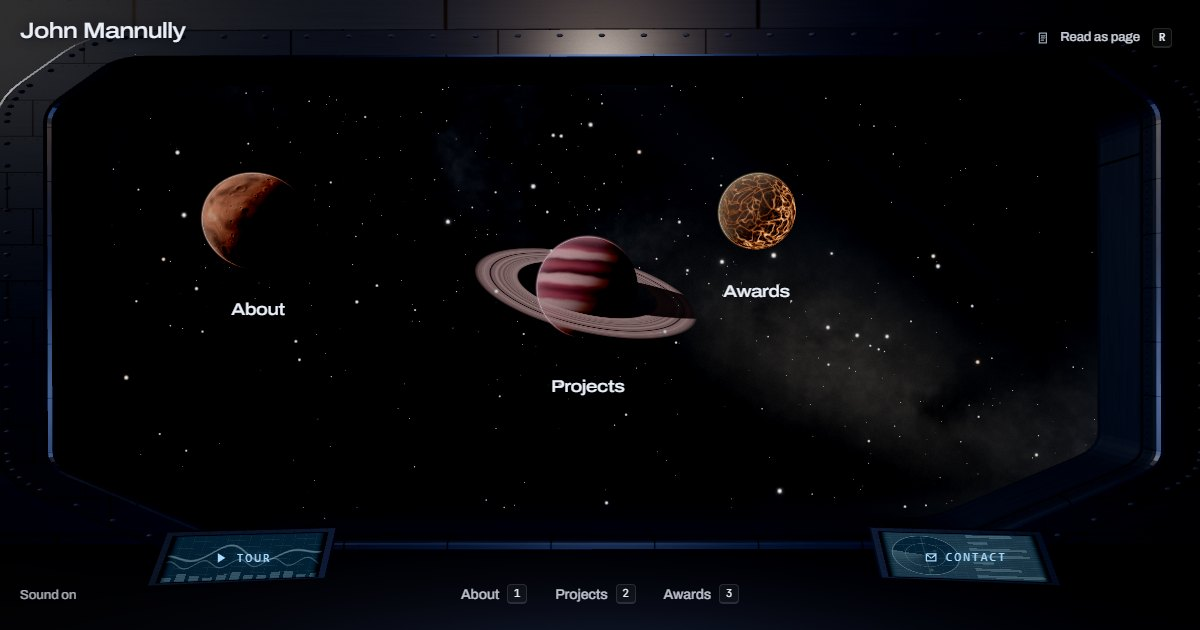
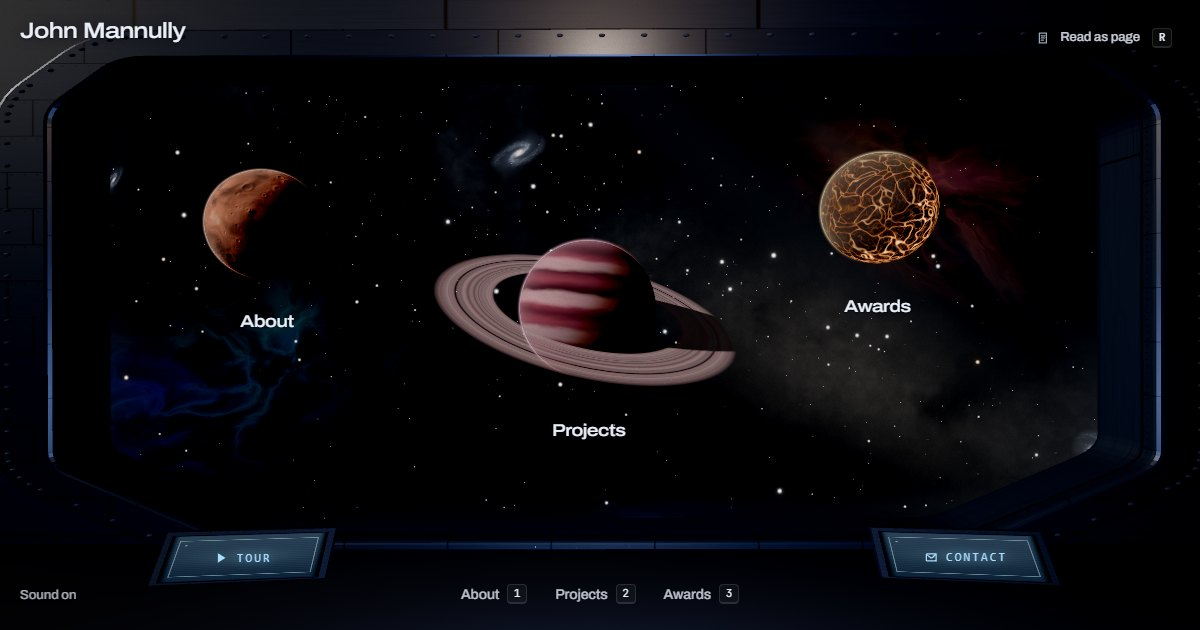
added nebulae, galaxies and meteors, enlarged planets, redid dash keys

diff --git a/src/scenes/overworld/DeepSky.tsx b/src/scenes/overworld/DeepSky.tsx
@@ -1,0 +1,302 @@
+import { useEffect, useMemo, useRef } from 'react';
+import { useFrame, useThree } from '@react-three/fiber';
+import * as THREE from 'three';
+import { useAppStore } from '@/state/useAppStore';
+
+/*
+ * What lies beyond the planets, seen through the deck window: a few soft
+ * nebulae, distant spiral galaxies, and now and then a meteor streaking past.
+ * Everything is additive, far behind the planets and never takes a click.
+ */
+
+/** Distance of the deep-sky layer: past the planets, inside the starfield shell */
+const FAR = 170;
+const noRaycast = () => null;
+
+const NOISE = /* glsl */ `
+  float hash(vec2 p) { return fract(sin(dot(p, vec2(127.1, 311.7))) * 43758.5453); }
+  float noise(vec2 p) {
+    vec2 i = floor(p), f = fract(p);
+    vec2 u = f * f * (3.0 - 2.0 * f);
+    return mix(mix(hash(i), hash(i + vec2(1.0, 0.0)), u.x), mix(hash(i + vec2(0.0, 1.0)), hash(i + vec2(1.0, 1.0)), u.x), u.y);
+  }
+  float fbm(vec2 p) {
+    float v = 0.0, a = 0.5;
+    for (int i = 0; i < 5; i++) { v += a * noise(p); p = p * 2.07 + 11.3; a *= 0.5; }
+    return v;
+  }
+`;
+
+const VERT = /* glsl */ `
+  varying vec2 vUv;
+  void main() {
+    vUv = uv * 2.0 - 1.0;
+    gl_Position = projectionMatrix * modelViewMatrix * vec4(position, 1.0);
+  }
+`;
+
+/** A wispy emission nebula: warped noise in two colours, cut by dark dust, fading at the edge. */
+const nebulaMaterial = (a: string, b: string, seed: number, strength: number) =>
+  new THREE.ShaderMaterial({
+    transparent: true,
+    depthWrite: false,
+    blending: THREE.AdditiveBlending,
+    fog: false,
+    uniforms: {
+      uA: { value: new THREE.Color(a) },
+      uB: { value: new THREE.Color(b) },
+      uSeed: { value: seed },
+      uTime: { value: 0 },
+      uK: { value: strength },
+    },
+    vertexShader: VERT,
+    fragmentShader: /* glsl */ `
+      uniform vec3 uA;
+      uniform vec3 uB;
+      uniform float uSeed;
+      uniform float uTime;
+      uniform float uK;
+      varying vec2 vUv;
+      ${NOISE}
+      void main() {
+        vec2 p = vUv;
+        float r = length(p * vec2(1.0, 1.35));
+        vec2 w = p * 1.6 + vec2(fbm(p * 1.4 + uSeed), fbm(p * 1.4 - uSeed + 3.1)) * 1.3 + uTime * 0.004;
+        float gas = fbm(w * 1.8 + uSeed * 2.0);
+        float fil = pow(1.0 - abs(fbm(w * 3.4 + 7.0) - 0.5) * 2.0, 6.0);
+        float dust = smoothstep(0.5, 0.75, fbm(w * 2.6 - 4.0));
+        float fall = pow(1.0 - smoothstep(0.05, 0.95, r), 1.5);
+        float d = (smoothstep(0.35, 0.8, gas) * 0.8 + fil * 0.55) * fall * (1.0 - 0.75 * dust);
+        vec3 col = mix(uA, uB, smoothstep(0.3, 0.75, fbm(w * 1.2 + 2.0))) * d * uK;
+        gl_FragColor = vec4(col, 1.0);
+        #include <tonemapping_fragment>
+        #include <colorspace_fragment>
+      }
+    `,
+  });
+
+/** A spiral galaxy seen at an angle: two log-spiral arms, a warm core, a cool disc. */
+const galaxyMaterial = (seed: number, tilt: number, spin: number, strength: number) =>
+  new THREE.ShaderMaterial({
+    transparent: true,
+    depthWrite: false,
+    blending: THREE.AdditiveBlending,
+    fog: false,
+    uniforms: { uSeed: { value: seed }, uTilt: { value: tilt }, uSpin: { value: spin }, uK: { value: strength } },
+    vertexShader: VERT,
+    fragmentShader: /* glsl */ `
+      uniform float uSeed;
+      uniform float uTilt;
+      uniform float uSpin;
+      uniform float uK;
+      varying vec2 vUv;
+      ${NOISE}
+      void main() {
+        // undo the viewing angle: the disc is squashed along y
+        float c = cos(uSpin), s = sin(uSpin);
+        vec2 p = mat2(c, -s, s, c) * vUv;
+        p.y /= max(0.2, uTilt);
+        float r = length(p);
+        float a = atan(p.y, p.x);
+        float arms = 0.5 + 0.5 * cos(2.0 * (a - log(r + 0.04) * 2.4) + fbm(p * 6.0 + uSeed) * 2.0);
+        arms = pow(arms, 2.5);
+        float clumps = smoothstep(0.45, 0.9, fbm(p * 14.0 + uSeed * 3.0));
+        float disc = exp(-r * 3.2) * (0.25 + 0.9 * arms * (0.6 + 0.6 * clumps));
+        float core = exp(-r * r * 60.0);
+        float edge = 1.0 - smoothstep(0.7, 1.0, length(vUv));
+        vec3 col = vec3(0.62, 0.74, 1.0) * disc + vec3(1.0, 0.86, 0.66) * core * 1.6 + vec3(1.0, 0.55, 0.7) * clumps * arms * exp(-r * 3.0) * 0.25;
+        gl_FragColor = vec4(col * edge * uK, 1.0);
+        #include <tonemapping_fragment>
+        #include <colorspace_fragment>
+      }
+    `,
+  });
+
+/** One meteor: a thin streak, white-hot at the head, fading along its tail. */
+const meteorMaterial = () =>
+  new THREE.ShaderMaterial({
+    transparent: true,
+    depthWrite: false,
+    blending: THREE.AdditiveBlending,
+    fog: false,
+    uniforms: { uA: { value: 0 } },
+    vertexShader: VERT,
+    fragmentShader: /* glsl */ `
+      uniform float uA;
+      varying vec2 vUv;
+      void main() {
+        // head at x = 1, tail toward x = -1
+        float t = (vUv.x + 1.0) * 0.5;
+        float body = pow(t, 3.0) * (1.0 - smoothstep(0.0, 1.0 - t * 0.6, abs(vUv.y)));
+        float head = exp(-((vUv.x - 0.92) * (vUv.x - 0.92)) * 300.0 - vUv.y * vUv.y * 6.0);
+        vec3 col = mix(vec3(0.55, 0.75, 1.0), vec3(1.0, 0.95, 0.85), t) * body * 1.4 + vec3(1.4) * head;
+        gl_FragColor = vec4(col * uA, 1.0);
+        #include <tonemapping_fragment>
+        #include <colorspace_fragment>
+      }
+    `,
+  });
+
+/** Direction from the viewer for a point in the window, roughly: x right, y up (tangents) */
+const place = (x: number, y: number) => new THREE.Vector3(x, y, -1).normalize().multiplyScalar(FAR);
+
+interface Sky {
+  pos: THREE.Vector3;
+  size: [number, number];
+  roll: number;
+  mat: THREE.ShaderMaterial;
+}
+
+const METEORS = 3;
+
+interface Meteor {
+  mat: THREE.ShaderMaterial;
+  start: THREE.Vector3;
+  dir: THREE.Vector3;
+  born: number;
+  life: number;
+  len: number;
+  /** Units per second along dir */
+  speed: number;
+  next: number;
+}
+
+const _x = new THREE.Vector3();
+const _y = new THREE.Vector3();
+const _z = new THREE.Vector3();
+const _m = new THREE.Matrix4();
+const _head = new THREE.Vector3();
+
+const DeepSky = () => {
+  const camera = useThree((s) => s.camera);
+  const reduced = useAppStore((s) => s.reducedMotion);
+  const meshes = useRef<(THREE.Mesh | null)[]>([]);
+
+  const sky = useMemo<Sky[]>(
+    () => [
+      // a teal and violet cloud low on the left, a rose and amber one high on the right
+      { pos: place(-0.55, -0.1), size: [120, 85], roll: 0.35, mat: nebulaMaterial('#2a9fb0', '#5a46c4', 1.3, 0.13) },
+      { pos: place(0.5, 0.16), size: [105, 70], roll: -0.5, mat: nebulaMaterial('#c4507a', '#c98a4e', 4.7, 0.1) },
+      { pos: place(0.05, -0.38), size: [140, 60], roll: 0.1, mat: nebulaMaterial('#3a5fd8', '#8a3fa8', 8.1, 0.075) },
+      // distant galaxies
+      { pos: place(-0.12, 0.24), size: [16, 16], roll: 0, mat: galaxyMaterial(2.0, 0.42, 0.6, 0.55) },
+      { pos: place(0.74, -0.2), size: [10, 10], roll: 0, mat: galaxyMaterial(5.0, 0.75, -0.3, 0.45) },
+      { pos: place(-0.72, 0.2), size: [7, 7], roll: 0, mat: galaxyMaterial(9.0, 0.28, 1.2, 0.4) },
+    ],
+    [],
+  );
+
+  const meteors = useMemo<Meteor[]>(
+    () =>
+      Array.from({ length: METEORS }, (_, i) => ({
+        mat: meteorMaterial(),
+        start: new THREE.Vector3(),
+        dir: new THREE.Vector3(),
+        born: -1,
+        life: 0.8,
+        len: 10,
+        speed: 60,
+        next: 1.5 + i * 3.1,
+      })),
+    [],
+  );
+
+  useEffect(
+    () => () => {
+      sky.forEach((s) => s.mat.dispose());
+      meteors.forEach((m) => m.mat.dispose());
+    },
+    [sky, meteors],
+  );
+
+  // the deep-sky planes face the eye once; they are far enough that parallax does not matter
+  useEffect(() => {
+    sky.forEach((s, i) => {
+      const m = meshes.current[i];
+      if (!m) return;
+      m.position.copy(s.pos);
+      m.lookAt(0, 0, 0);
+      m.rotateZ(s.roll);
+    });
+  }, [sky]);
+
+  useFrame(({ clock }) => {
+    const t = clock.elapsedTime;
+    sky.forEach((s) => {
+      if (s.mat.uniforms.uTime) s.mat.uniforms.uTime.value = reduced ? 0 : t;
+    });
+    meteors.forEach((m, i) => {
+      const mesh = meshes.current[sky.length + i];
+      if (!mesh) return;
+      if (reduced) {
+        mesh.visible = false;
+        return;
+      }
+      if (m.born < 0 && t >= m.next) {
+        // somewhere in the window, heading down and across at a slant
+        m.born = t;
+        m.life = 0.55 + Math.random() * 0.5;
+        m.len = 8 + Math.random() * 10;
+        m.speed = 25 + Math.random() * 25;
+        m.start.set((Math.random() - 0.5) * 1.4, 0.05 + Math.random() * 0.45, -1).normalize().multiplyScalar(120 + Math.random() * 30);
+        const side = Math.random() < 0.5 ? -1 : 1;
+        m.dir.set(side * (0.6 + Math.random() * 0.5), -(0.35 + Math.random() * 0.4), 0).normalize();
+      }
+      const age = m.born < 0 ? -1 : (t - m.born) / m.life;
+      if (age < 0 || age > 1) {
+        mesh.visible = false;
+        if (age > 1) {
+          m.born = -1;
+          m.next = t + 2.5 + Math.random() * 6;
+        }
+        return;
+      }
+      mesh.visible = true;
+      m.mat.uniforms.uA.value = Math.sin(Math.PI * age) * 0.9;
+      // a streak from the tail to the head, lying flat toward the eye
+      _head.copy(m.start).addScaledVector(m.dir, m.speed * (t - m.born));
+      _x.copy(m.dir);
+      _z.copy(camera.position).sub(_head).normalize();
+      _y.crossVectors(_z, _x).normalize();
+      _z.crossVectors(_x, _y);
+      _m.makeBasis(_x, _y, _z);
+      mesh.quaternion.setFromRotationMatrix(_m);
+      mesh.position.copy(_head).addScaledVector(m.dir, -m.len / 2);
+      mesh.scale.set(m.len, 0.16, 1);
+    });
+  });
+
+  return (
+    <group renderOrder={-5}>
+      {sky.map((s, i) => (
+        <mesh
+          key={i}
+          ref={(el) => {
+            meshes.current[i] = el;
+          }}
+          material={s.mat}
+          raycast={noRaycast}
+          frustumCulled={false}
+        >
+          <planeGeometry args={s.size} />
+        </mesh>
+      ))}
+      {meteors.map((m, i) => (
+        <mesh
+          key={`m${i}`}
+          ref={(el) => {
+            meshes.current[sky.length + i] = el;
+          }}
+          material={m.mat}
+          visible={false}
+          raycast={noRaycast}
+          frustumCulled={false}
+        >
+          <planeGeometry args={[1, 1]} />
+        </mesh>
+      ))}
+    </group>
+  );
+};
+
+export default DeepSky;

diff --git a/src/scenes/ship/materials.ts b/src/scenes/ship/materials.ts
@@ -73,7 +73,8 @@ export const instrumentMaterial = (kind: 0 | 1) =>
   new THREE.ShaderMaterial({
     fog: false,
     transparent: true,
-    uniforms: { uTime: { value: 0 }, uKind: { value: kind }, uLit: { value: 1 } },
+    // the site opens in orbit, where the displays are key faces
+    uniforms: { uTime: { value: 0 }, uKind: { value: kind }, uFace: { value: 1 }, uHover: { value: 0 } },
     vertexShader: /* glsl */ `
       varying vec2 vUv;
       void main() {
@@ -84,8 +85,9 @@ export const instrumentMaterial = (kind: 0 | 1) =>
     fragmentShader: /* glsl */ `
       uniform float uTime;
       uniform float uKind;
-      // 1 = full graphics; lower while the display carries a control label
-      uniform float uLit;
+      // 1 = a plain console key face for a control label (no graphics under the text)
+      uniform float uFace;
+      uniform float uHover;
       varying vec2 vUv;
       void main() {
         vec2 uv = vUv;
@@ -125,7 +127,22 @@ export const instrumentMaterial = (kind: 0 | 1) =>
         float scan = 0.85 + 0.15 * sin(uv.y * 160.0);
         vec2 e = min(uv, 1.0 - uv);
         float vig = smoothstep(0.0, 0.06, min(e.x, e.y * 2.0));
-        vec3 col = vec3(0.01, 0.024, 0.04) + ink * (grid + g) * scan * 0.85 * uLit;
+        vec3 col = vec3(0.01, 0.024, 0.04) + ink * (grid + g) * scan * 0.85;
+
+        // key face: dark glass, an inset hairline frame, a status light in the corner, a glow on hover
+        vec2 q = uv - 0.5;
+        vec2 fe = abs(q) - vec2(0.44, 0.38);
+        float box = max(fe.x, fe.y * 0.5);
+        float line = smoothstep(0.006, 0.0, abs(box));
+        float led = smoothstep(0.022, 0.0, length((uv - vec2(0.105, 0.78)) * vec2(2.0, 1.0)));
+        float ledOn = 0.55 + 0.45 * sin(uTime * 1.6);
+        float glow = exp(-dot(q * vec2(1.6, 3.0), q * vec2(1.6, 3.0)) * 4.0);
+        vec3 faceCol = mix(vec3(0.012, 0.022, 0.04), vec3(0.03, 0.05, 0.08), uv.y)
+          + ink * line * (0.22 + 0.45 * uHover)
+          + ink * glow * (0.03 + 0.1 * uHover)
+          + vec3(0.45, 1.0, 0.7) * led * ledOn * 0.9
+          + ink * (0.5 + 0.5 * sin(uv.y * 160.0)) * 0.006;
+        col = mix(col, faceCol, uFace);
         gl_FragColor = vec4(col * vig, 1.0);
         #include <tonemapping_fragment>
         #include <colorspace_fragment>

diff --git a/src/scenes/ship/Cockpit.tsx b/src/scenes/ship/Cockpit.tsx
@@ -587,8 +587,9 @@ const Cockpit = () => {
       const d = dashScreens[key];
       const mesh = displays.current[i];
       const mat = i === 0 ? screenL : screenR;
-      const lit = asControls ? (d.hover ? 0.38 : 0.2) : 1;
-      mat.uniforms.uLit.value += (lit - mat.uniforms.uLit.value) * damp(12, dt);
+      // in orbit the display turns into a plain key face; the graphics come back in flight
+      mat.uniforms.uFace.value += ((asControls ? 1 : 0) - mat.uniforms.uFace.value) * damp(8, dt);
+      mat.uniforms.uHover.value += ((asControls && d.hover ? 1 : 0) - mat.uniforms.uHover.value) * damp(14, dt);
       d.visible = asControls && !!mesh;
       if (!d.visible || !mesh) return;
       let x0 = Infinity;

diff --git a/src/scenes/overworld/OverworldScene.tsx b/src/scenes/overworld/OverworldScene.tsx
@@ -1,6 +1,7 @@
 import { useEffect } from 'react';
 import { useFrame } from '@react-three/fiber';
 import * as THREE from 'three';
+import DeepSky from './DeepSky';
 import Starfield from './Starfield';
 import PlanetNode from './PlanetNode';
 import TelescopeCamera from './TelescopeCamera';
@@ -87,6 +88,7 @@ const OverworldScene = () => {
       <directionalLight position={SUN_LIGHT_POS} intensity={2.2} color="#fff3e2" />
       <SpaceBackdrop />
       <Starfield />
+      <DeepSky />
       <Sun />
       {planets.map((p) => (
         <PlanetNode key={p.id} planet={p} />

diff --git a/README.md b/README.md
@@ -26,7 +26,7 @@ flowchart LR
     runtime[("runtime.ts<br/><sub>per-frame mutable state</sub>")]
   end
   subgraph Canvas["R3F canvas"]
-    overworld["OverworldScene<br/><sub>planets, stars, telescope camera</sub>"]
+    overworld["OverworldScene<br/><sub>planets, stars, nebulae, galaxies, meteors, telescope camera</sub>"]
     surface["PlanetSurfaceScene<br/><sub>sky, mothership, terrain, monuments, wildlife, walk camera</sub>"]
     screens["BeaconScreens<br/><sub>orbiting panels, in-world content screens</sub>"]
     transition["TransitionController<br/><sub>burn and launch camera</sub>"]
@@ -66,7 +66,7 @@ flowchart LR
 
 Scene modes always move in this order:
 
-1. `overworld`: the view from the ship's observation deck, where the site opens. The camera turns inside a fixed cockpit (bulkhead, canopy window, dashboard with two live displays), and the planet layout is fitted to 84% of the lens so every planet stays inside the window. Hovering a planet (in 3D or in the dock) highlights it; clicking calls `travelTo`. The two dash displays are controls: the cockpit projects their corners to the screen each frame (`dashScreens`) and DOM buttons follow them, Tour on the left and Contact on the right, which opens a card with email (with copy) and every social link. The top bar holds only Read as page; Sound sits bottom left.
+1. `overworld`: the view from the ship's observation deck, where the site opens. The camera turns inside a fixed cockpit (bulkhead, canopy window, dashboard with two live displays), and the planet layout is fitted to 84% of the lens so every planet stays inside the window. Hovering a planet (in 3D or in the dock) highlights it; clicking calls `travelTo`. Behind the planets sit three soft nebulae and three distant spiral galaxies (additive shader planes 170 units out), and a meteor streaks across the window every few seconds (off with reduced motion). The two dash displays are controls, drawn as plain key faces (an inset frame, a status light, a glow on hover) in orbit and as live instruments in flight: the cockpit projects their corners to the screen each frame (`dashScreens`) and DOM buttons follow them, Tour on the left and Contact on the right, which opens a card with email (with copy) and every social link. The top bar holds only Read as page; Sound sits bottom left.
 2. `transitioning-in`: the ship swings onto the planet in 280 ms and burns toward it on an accelerating curve for 760 ms while the lens widens, light streaks rush past and the cabin shakes harder with speed. From about half way the canopy glows with entry plasma in the planet's accent, the veil fades to the destination sky from 560 ms and the mode switches at 760 ms, always under full cover.
 3. `planet`: the ship descends from 15 units up and 9 behind, nose down, decelerating onto the spawn point over 440 ms while the veil clears in 380 ms, and the legs take the weight with a damped dip. The view then cuts to the hatch (shut over 70 ms); its latches release, the two slabs slide apart over 320 ms and the viewer steps 1.3 units forward through the doorway. The planet shows through the doors about 1.35 s after the click, and walking starts at about 1.65 s. The landing clock runs on frame time capped at 100 ms per frame, so a first-frame stall on shader compiles cannot skip the landing. The ship then lifts off behind the viewer, passes about 50 units overhead into view, climbs away over 7 s and holds station about 300 units out and 53 degrees up: out of view at rest, in view once you look up past about 40 degrees. On desktop the cursor is locked for mouse look (released whenever the reader or the tour needs it). Walking near or looking at a monument focuses it. On desktop its orbiting panels (dark, near-solid plates that read from across the field) fan out into screens once the viewer is within 7.5 units; on phones the bottom sheet opens instead.
 4. `transitioning-out`: the camera launches upward, the veil covers at 900 ms and the mode returns to `overworld` at 1500 ms. Planet-to-planet travel is chained: the launch is cut at 900 ms and the next landing happens 450 ms later, all under the veil.
